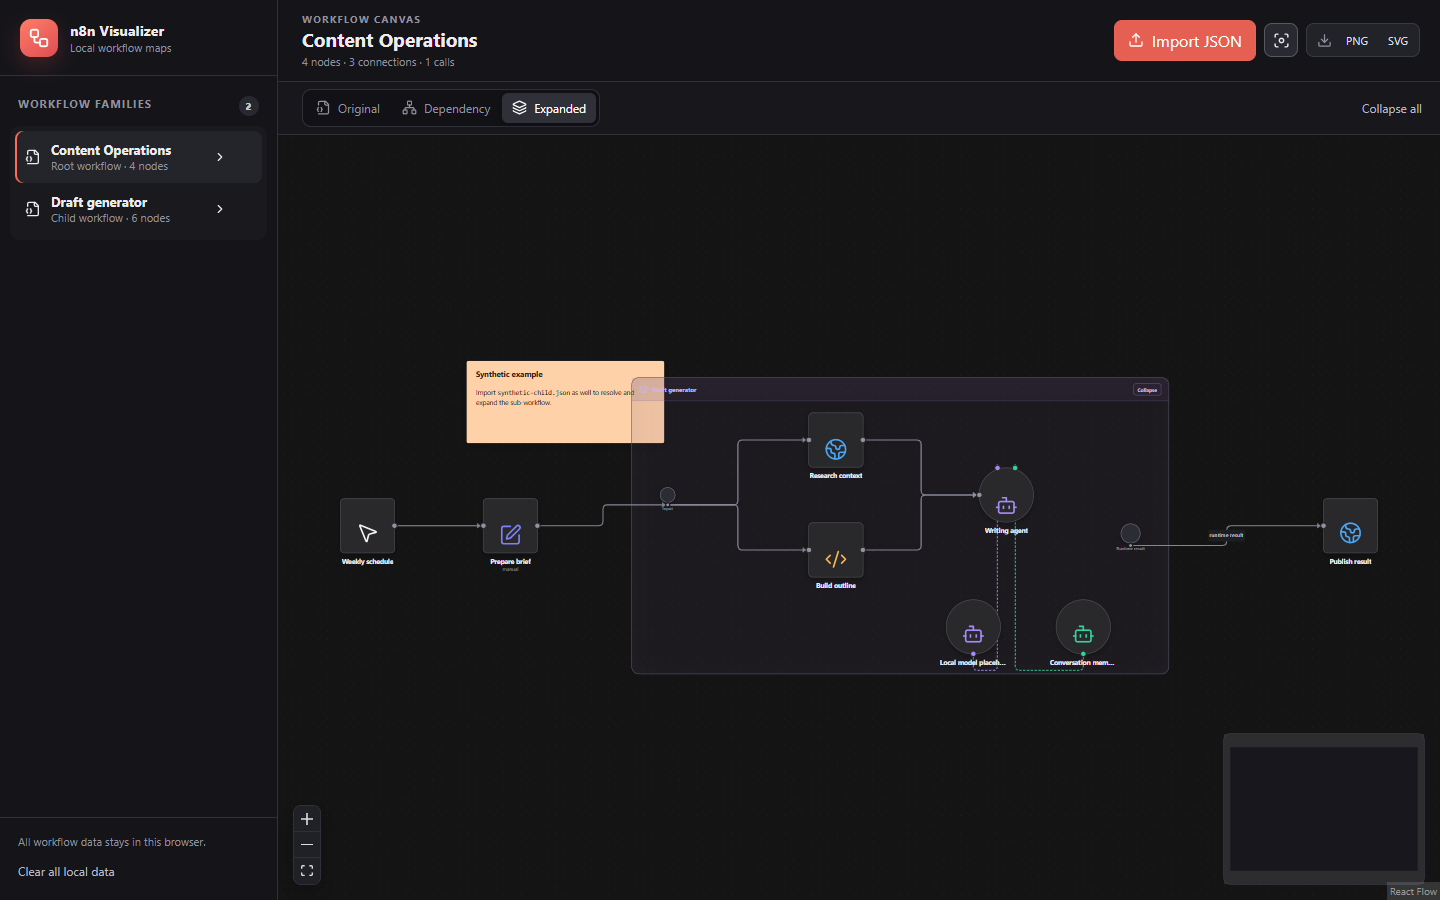
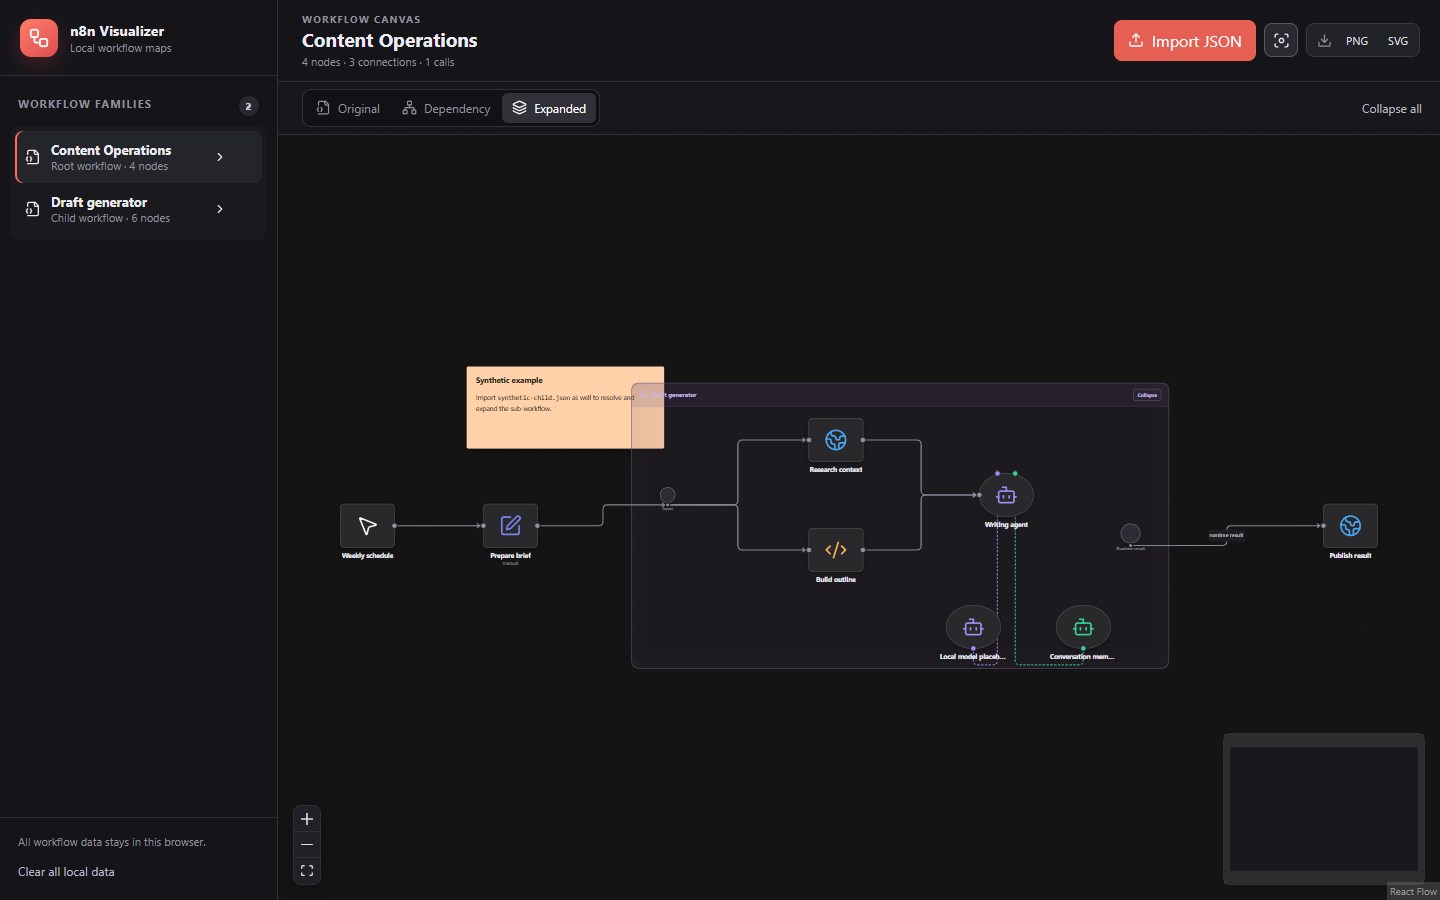
Refine n8n node proportions and alignment

diff --git a/tests/e2e/app.spec.ts b/tests/e2e/app.spec.ts
@@ -22,7 +22,7 @@ test('imports peers independently, resolves a later child, switches views, colla
     const footprint = getComputedStyle(node);
     return { footprintWidth: footprint.width, footprintHeight: footprint.height, tileWidth: tile.width, tileHeight: tile.height };
   });
-  expect(nodeGeometry).toEqual({ footprintWidth: '100px', footprintHeight: '100px', tileWidth: '100px', tileHeight: '100px' });
+  expect(nodeGeometry).toEqual({ footprintWidth: '100px', footprintHeight: '80px', tileWidth: '100px', tileHeight: '80px' });
   await expect(page.getByTestId('graph-stage').locator('.react-flow__edge-path[d]')).toHaveCount(3);
 
   await page.getByRole('button', { name: 'Dependency' }).click();
@@ -79,6 +79,38 @@ test('routes a backward loop around the node between its endpoints', async ({ pa
     return false;
   });
   expect(crossesMiddle).toBe(false);
+});
+
+test('keeps an aligned four-input Merge connection straight and its icon centered', async ({ page }) => {
+  const alignedMerge = {
+    id: 'aligned-merge', name: 'Aligned Merge', nodes: [
+      { id: 'merge', name: 'Merge', type: 'n8n-nodes-base.merge', position: [0, 0], parameters: { numberInputs: 4 } },
+      { id: 'next', name: 'Aggregate', type: 'n8n-nodes-base.aggregate', position: [144, 32], parameters: {} },
+    ],
+    connections: { Merge: { main: [[{ node: 'Aggregate', type: 'main', index: 0 }]] } },
+  };
+  await page.locator('input[type=file]').setInputFiles({ name: 'aligned-merge.json', mimeType: 'application/json', buffer: Buffer.from(JSON.stringify(alignedMerge)) });
+  await page.getByRole('button', { name: 'Close import results' }).click();
+  await page.getByRole('button', { name: 'Original' }).click();
+  await expect(page.getByTestId('graph-stage').locator('.react-flow__edge-path[d]')).toHaveCount(1);
+
+  const geometry = await page.evaluate(() => {
+    const merge = [...document.querySelectorAll('.react-flow__node')].find((node) => node.querySelector('strong')?.textContent === 'Merge')!;
+    const tile = merge.querySelector('.node-tile')!.getBoundingClientRect();
+    const icon = merge.querySelector('.node-symbol')!.getBoundingClientRect();
+    const path = document.querySelector('.react-flow__edge-path')!.getAttribute('d') ?? '';
+    return {
+      tileHeight: Number.parseFloat(getComputedStyle(merge.querySelector('.node-tile')!).height),
+      iconOffsetX: (icon.left + icon.width / 2) - (tile.left + tile.width / 2),
+      iconOffsetY: (icon.top + icon.height / 2) - (tile.top + tile.height / 2),
+      path,
+    };
+  });
+  expect(geometry.tileHeight).toBeCloseTo(144, 1);
+  expect(geometry.iconOffsetX).toBeCloseTo(0, 1);
+  expect(geometry.iconOffsetY).toBeCloseTo(0, 1);
+  expect(geometry.path).not.toContain('Q');
+  expect(geometry.path).not.toContain('C');
 });
 
 test('exports both formats and keeps sticky-note payloads inert without external requests', async ({ page }) => {

diff --git a/src/renderers/workflow/original.ts b/src/renderers/workflow/original.ts
@@ -6,7 +6,7 @@ import { edgeStyle, makeHandle } from '../scene';
 // separate from the inner tile preserves the exported coordinates and leaves
 // room for the label without making neighbouring nodes collide.
 export const DEFAULT_NODE_WIDTH = 100;
-export const DEFAULT_NODE_HEIGHT = 100;
+export const DEFAULT_NODE_HEIGHT = 80;
 
 function connectedSlotCount(workflow: NormalizedWorkflow, nodeId: string, direction: 'input' | 'output'): number {
   const indices = workflow.edges
@@ -40,7 +40,11 @@ export function buildOriginalScene(workflow: NormalizedWorkflow, prefix = workfl
     const inputCount = Math.max(connectedSlotCount(workflow, node.id, 'input'), declaredInputs);
     const outputCount = Math.max(connectedSlotCount(workflow, node.id, 'output'), normalizedType.endsWith('.if') ? 2 : 0);
     const visibleSlotCount = Math.max(inputCount, outputCount);
-    const height = visibleSlotCount > 2 ? DEFAULT_NODE_HEIGHT + ((visibleSlotCount - 1) * 40) : DEFAULT_NODE_HEIGHT;
+    // n8n keeps ordinary nodes wider than they are tall. Multi-slot nodes add
+    // one 32 px row for each slot beyond the two that fit in the base tile.
+    // Four-input Merge nodes therefore become 144 px tall, which also keeps
+    // their centre aligned with downstream nodes placed 32 px lower.
+    const height = visibleSlotCount > 2 ? DEFAULT_NODE_HEIGHT + ((visibleSlotCount - 2) * 32) : DEFAULT_NODE_HEIGHT;
     return {
       id: nodeId(node.id),
       kind: 'workflow',

diff --git a/src/styles.css b/src/styles.css
@@ -81,7 +81,7 @@ button { color: inherit; }
 .node-tile { position: relative; display: grid; width: 100%; height: 100%; place-items: center; border: 1px solid #515157; border-radius: 8px; background: #29292c; box-shadow: 0 4px 10px rgba(0,0,0,.3), inset 0 1px rgba(255,255,255,.035); transition: border-color .12s ease, box-shadow .12s ease; }
 .canvas-node:hover .node-tile { border-color: var(--node-accent); box-shadow: 0 0 0 2px color-mix(in srgb, var(--node-accent) 18%, transparent), 0 6px 15px rgba(0,0,0,.36); }
 .node-tile.shape-circle { border-radius: 50%; }
-.node-symbol { display: grid; width: 48px; height: 48px; place-items: center; color: var(--node-accent); }
+.node-symbol { position: absolute; top: 50%; left: 50%; display: grid; width: 48px; height: 48px; place-items: center; color: var(--node-accent); transform: translate(-50%, -50%); }
 .node-symbol svg { width: 42px; height: 42px; }
 .node-copy { position: absolute; top: 100%; left: 50%; align-items: center; width: 124px; padding: 7px 1px 0; text-align: center; transform: translateX(-50%); }
 .node-copy strong { max-width: 100%; overflow: hidden; font-size: 12px; font-weight: 650; line-height: 15px; text-overflow: ellipsis; white-space: nowrap; }

diff --git a/tests/scenes.test.ts b/tests/scenes.test.ts
@@ -15,7 +15,7 @@ describe('scene builders', () => {
       A: { future: [null, [{ node: 'B', type: 'futureTarget', index: 4 }]] },
     });
     const scene = buildOriginalScene(parse(raw));
-    expect(scene.nodes.find((item) => item.id.endsWith('node:a'))).toMatchObject({ x: -100, y: 25, width: 100, height: 100 });
+    expect(scene.nodes.find((item) => item.id.endsWith('node:a'))).toMatchObject({ x: -100, y: 25, width: 100, height: 80 });
     expect(scene.edges[0]).toMatchObject({ sourceHandle: 'out:future:1', targetHandle: 'in:futureTarget:4' });
   });
 
@@ -30,7 +30,7 @@ describe('scene builders', () => {
       Four: { main: [[{ node: 'Merge', type: 'main', index: 3 }]] },
     });
     const mergeNode = buildOriginalScene(parse(raw)).nodes.find((item) => item.id.endsWith('node:merge'));
-    expect(mergeNode).toMatchObject({ x: 320, y: 40, width: 100, height: 220, data: { inputCount: 4 } });
+    expect(mergeNode).toMatchObject({ x: 320, y: 40, width: 100, height: 144, data: { inputCount: 4 } });
   });
 
   it('deduplicates dependency edges with counts and lays out deterministically', () => {

diff --git a/src/components/GraphCanvas.tsx b/src/components/GraphCanvas.tsx
@@ -415,6 +415,12 @@ function routeHits(points: RoutePoint[], obstacles: RouteRect[]): boolean {
 
 function horizontalRoute(source: RoutePoint, target: RoutePoint, obstacles: RouteRect[]): RoutePoint[] {
   const gap = target.x - source.x;
+  // Do not introduce a midpoint bend when exported geometry already aligns
+  // the two handles. This is the common n8n Merge -> next-node shape.
+  if (gap >= 0 && Math.abs(source.y - target.y) < 0.5) {
+    const direct = [source, target];
+    if (!routeHits(direct, obstacles)) return direct;
+  }
   if (gap >= 0) {
     const centerX = source.x + (gap / 2);
     const direct = [source, { x: centerX, y: source.y }, { x: centerX, y: target.y }, target];

diff --git a/docs/architecture.md b/docs/architecture.md
@@ -13,6 +13,6 @@ No imported data is executed. Sticky-note HTML is disabled, URI schemes are allo
 
 Expanded layout is a pure geometric transformation: child-relative positions and parent Y coordinates are retained, calls are processed in stable X/Y/ID order, and only downstream or horizontally colliding parent elements move right. Dependency view is the only view that uses Dagre.
 
-Original and Expanded workflow nodes use the exported position as the top-left of a 100×100 visual tile. Nodes with more than two visible input/output slots grow vertically while retaining their exported anchor, which matches n8n's multi-input treatment without rewriting valid coordinates. Node appearance is selected locally from the normalized type string, with bundled brand glyphs where available, independently drawn core-node symbols, and an explicit generic fallback for unknown future types.
+Original and Expanded workflow nodes use the exported position as the top-left of a 100×80 visual tile. Nodes with more than two visible input/output slots add a 32-pixel row per extra slot while retaining their exported anchor, which matches n8n's multi-input treatment without rewriting valid coordinates. Node appearance is selected locally from the normalized type string, with bundled brand glyphs where available, independently drawn core-node symbols, and an explicit generic fallback for unknown future types.
 
-Connections use a small pure routing subsystem in the React renderer. Forward paths use a rounded orthogonal midpoint route; backward loops first try a target-aligned lane, then select the nearest clear lane below intervening node bounds. Every route is calculated from React Flow's measured node rectangles. Expanded workflow boundaries are decorative containers and are deliberately excluded from collision checks.
+Connections use a small pure routing subsystem in the React renderer. Aligned forward handles connect with a straight segment; other forward paths use a rounded orthogonal midpoint route. Backward loops first try a target-aligned lane, then select the nearest clear lane below intervening node bounds. Every route is calculated from React Flow's measured node rectangles. Expanded workflow boundaries are decorative containers and are deliberately excluded from collision checks.
